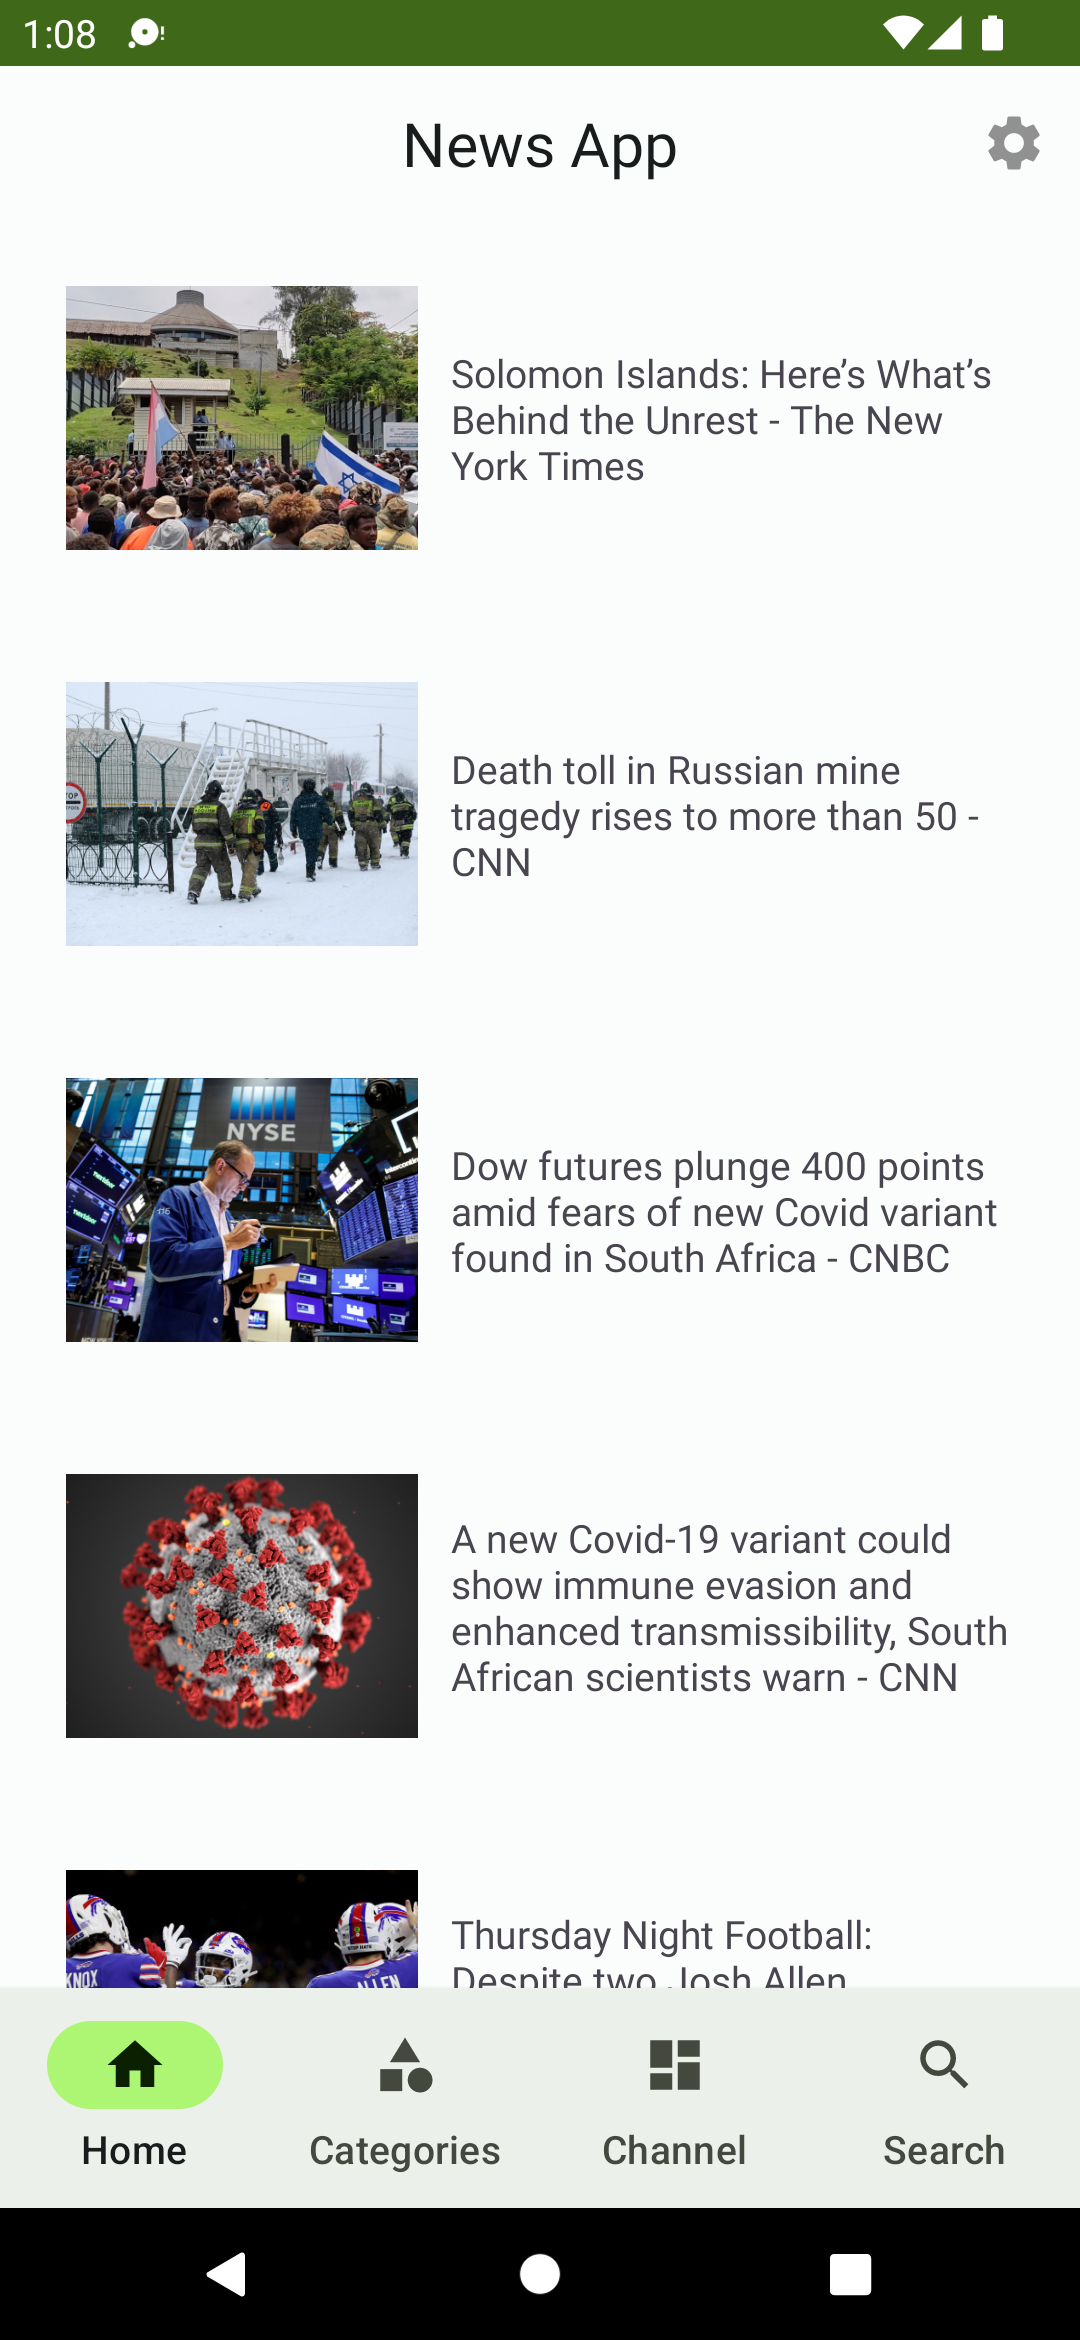
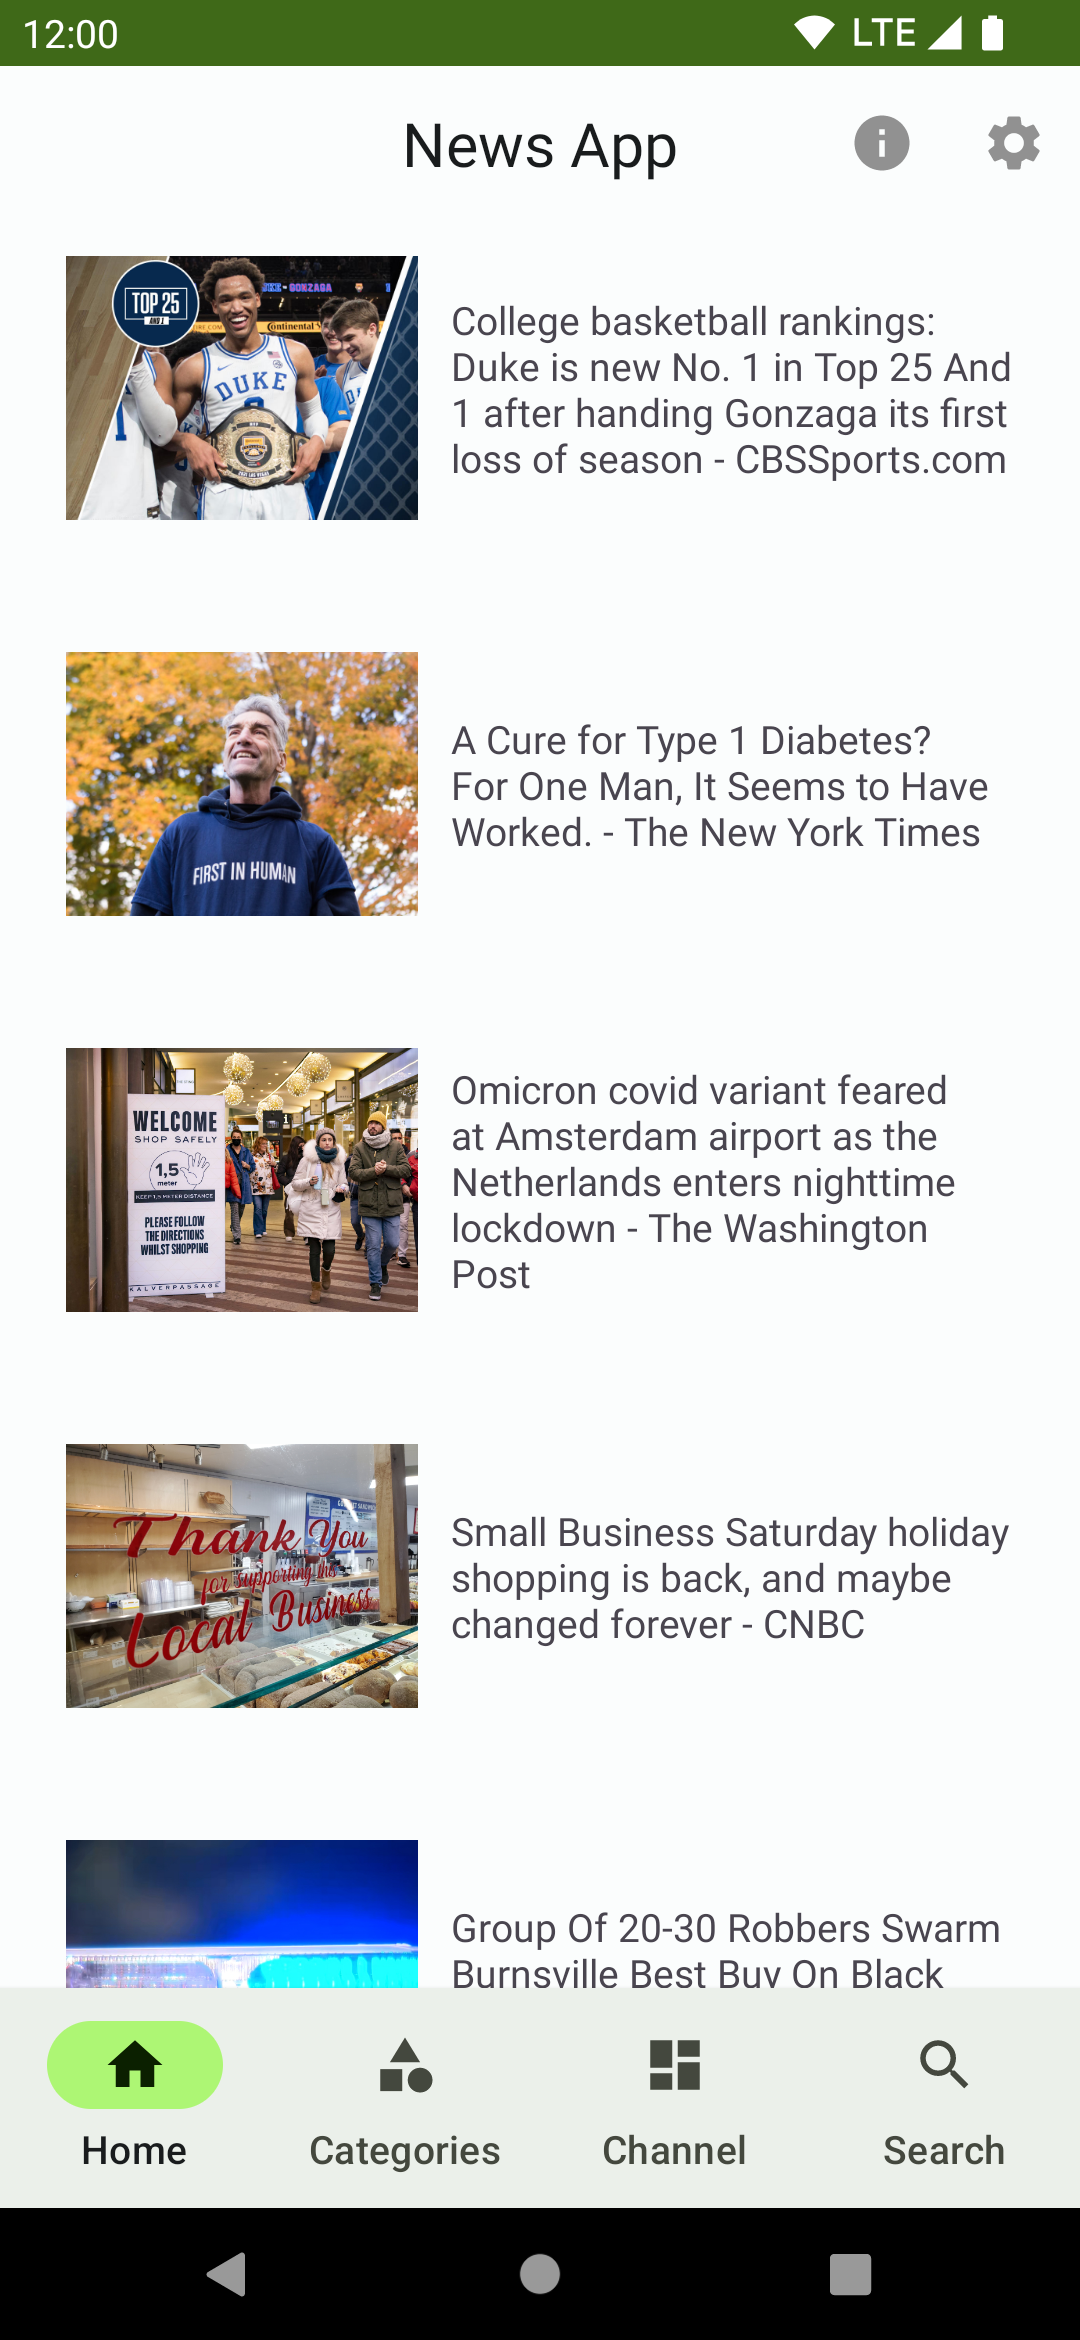
Update screenshots

diff --git a/README.md b/README.md
@@ -25,10 +25,10 @@ Developer phone number: +1-2502881706
 <!-- Images to show in github readme -->
 <img src="https://github.com/YAJATapps/NewsApp/raw/main/screenshots/banner.png " width="500">
 
-<img src="https://github.com/YAJATapps/NewsApp/raw/main/screenshots/home.png " width="500">
+<img src="https://github.com/YAJATapps/NewsApp/raw/main/screenshots/home.png " height="500">
 
-<img src="https://github.com/YAJATapps/NewsApp/raw/main/screenshots/categories.png " width="500">
+<img src="https://github.com/YAJATapps/NewsApp/raw/main/screenshots/categories.png " height="500">
 
-<img src="https://github.com/YAJATapps/NewsApp/raw/main/screenshots/channels.png " width="500">
+<img src="https://github.com/YAJATapps/NewsApp/raw/main/screenshots/channels.png " height="500">
 
-<img src="https://github.com/YAJATapps/NewsApp/raw/main/screenshots/search.png " width="500">
+<img src="https://github.com/YAJATapps/NewsApp/raw/main/screenshots/search.png " height="500">
